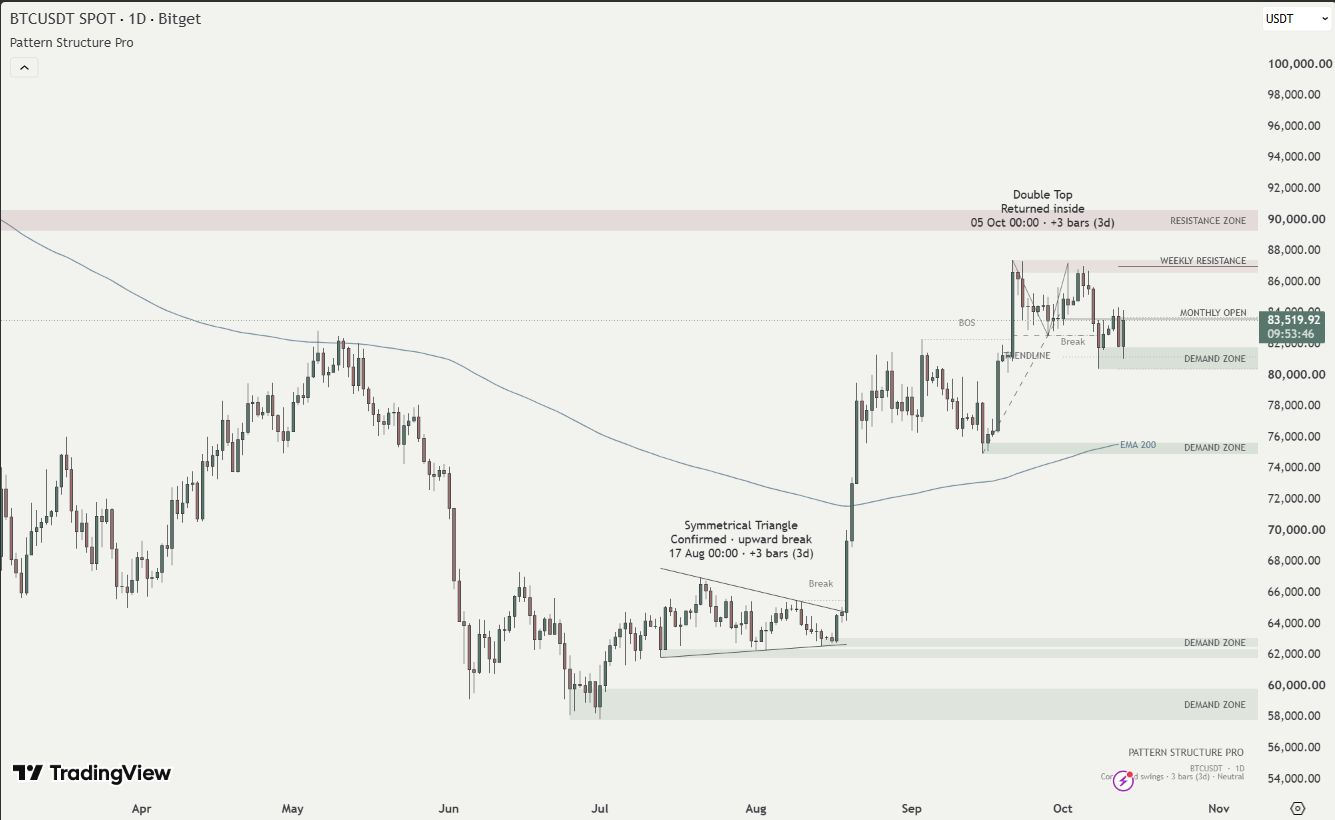
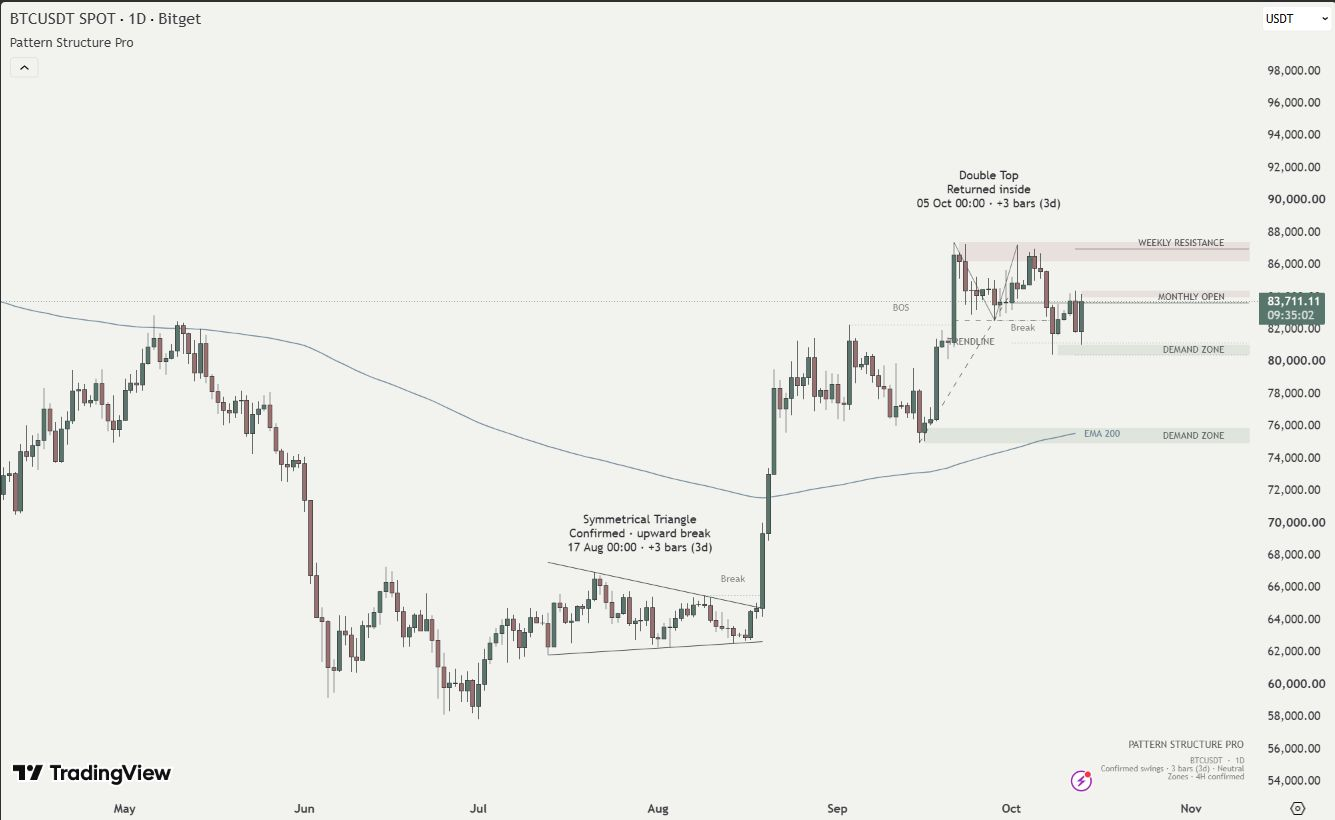
Keep supply and demand zones consistent with a shared 4H source

diff --git a/README.md b/README.md
@@ -12,7 +12,7 @@ Stories view on **BITGET:BTCUSDT, 4H**: two local Double Tops, a historical tren
 
 - **18 pattern variants:** Double and Triple Top/Bottom; Head & Shoulders and Inverse H&S; ascending, descending, and symmetrical triangles; rising and falling wedges; bullish and bearish flags and pennants; ascending and descending channels; and rectangles.
 - **Market structure:** optional HH, HL, LH, LL, EQH, and EQL labels. Closed-bar breaks are classified as BOS, CHoCH, or a neutral Break from the established swing structure.
-- **Price context:** swing-based supply/demand zones, previous week high/low/midpoint, previous month midpoint, and current month open. Editorial presentation labels the previous week high as Weekly Resistance.
+- **Price context:** confirmed 4H supply/demand zones shared across supported chart intervals, previous week high/low/midpoint, previous month midpoint, and current month open. Editorial presentation labels the previous week high as Weekly Resistance.
 - **Trend references:** a confirmed swing trendline that stops at its first closed-bar break, plus an optional 200-period EMA on the same price scale.
 - **Controlled presentation:** up to three distinct selected patterns, transparent zones, thin levels, priority-based labels, automatic light/dark colors, and bounded drawing storage. Lower-priority text is suppressed when it conflicts with important annotations.
 
@@ -31,7 +31,7 @@ The engine uses confirmed pivot highs and lows with equal left- and right-hand s
 | 4H | 3 closed bars / 12 hours | 4H candles |
 | 1D | 3 closed bars / 3 trading days | Daily candles |
 
-Switching the chart interval automatically recalculates the entire engine on that interval. Geometry windows, expiry, and confirmation are measured in **bars**, while price tolerances use that interval's ATR; they are not forced into a fixed 4H wall-clock duration. The 4H detection thresholds are preserved. Analysis captions show both the bar delay and its interval duration. For markets with session gaps, three daily bars can take longer than three calendar days.
+Switching the chart interval recalculates patterns, swing structure, trendlines, and EMA on that interval. Supply/demand zones use a shared **4H** source by default, so their price boundaries and source timestamps remain consistent across 1H, 2H, 4H, and 1D. Choose **Zone source: Chart** to restore interval-specific zones. Geometry windows, expiry, and confirmation are measured in **bars**, while price tolerances use that interval's ATR; they are not forced into a fixed 4H wall-clock duration. The 4H detection thresholds are preserved. Analysis captions show both the bar delay and its interval duration. For markets with session gaps, three daily bars can take longer than three calendar days.
 
 Reversal candidates compare three or five anchors for matching extremes, adequate intervening depth, prior price context, and—for head and shoulders—head prominence and shoulder timing. Double Top/Bottom detection also searches across minor intervening swings while rejecting an overtopping extreme or a separate central third contact.
 
@@ -51,7 +51,7 @@ Candidates receive a geometric quality score. The minimum-quality setting filter
 
 Unconfirmed reversals invalidate when price closes beyond the opposite extreme and buffer. Flags/pennants invalidate on a qualifying break against their impulse direction. Candidates also expire: channels/rectangles after 60 bars from their final anchor, other formations after 30 bars from detection, and reversals after a span-dependent 30–120 bars. Converging patterns expire on reaching their intersection. Invalid and expired candidates are excluded from the display; old candidates and finished patterns also have age limits.
 
-Supply/demand zones require at least 1.5 ATR departure from a confirmed swing. Their width derives from the pivot candle's wick/body relationship and is bounded to 0.2–1 ATR. A close beyond the far edge and buffer invalidates a zone; a touch alone does not. Overlapping same-side zones merge for display without changing their stored source geometry. Stories filters distant zones and presents one primary zone on each side where eligible zones exist; Analysis can show more.
+Supply/demand zones require at least 1.5 ATR departure from a confirmed swing. Their width derives from the pivot candle's wick/body relationship and is bounded to 0.2–1 ATR. A close beyond the far edge and buffer invalidates a zone; a touch alone does not. Overlapping same-side zones merge for display without changing their stored source geometry. In 4H source mode, detection, invalidation, expiry (300 source bars), relevance, and zone selection all use closed 4H data. Time-based drawing anchors preserve the source candle position across chart intervals. The 1D chart reads closed 4H intrabars; it does not wait for the daily candle to close. The open 4H candle does not change zone boundaries or validity. Stories filters distant zones and presents one primary zone on each side where eligible zones exist; Analysis can show more.
 
 ### Developing formations and historical drawings
 
@@ -63,7 +63,7 @@ PSP redraws the current selection rather than retaining every historical drawing
 
 ## Screenshots
 
-The images were captured on **13 October 2026**, directly in TradingView through the **Codex browser**, using the production source on BITGET:BTCUSDT. Browser screenshot clipping removes surrounding panels and toolbars; candles, price axes, labels, and drawings are unchanged. No patterns were manually added.
+The images were captured on **13 October 2026**, directly in TradingView, using the production source on BITGET:BTCUSDT. Browser screenshot clipping removes surrounding panels and toolbars; candles, price axes, labels, and drawings are unchanged. No patterns were manually added. Screenshots reflect the shared 4H zone version.
 
 ### Stories
 
@@ -81,7 +81,7 @@ The same market window in Analysis view shows anchor geometry, a Double Top mark
 
 [1H Analysis](assets/screenshots/psp-1h-analysis.jpg) · [2H Analysis](assets/screenshots/psp-2h-analysis.jpg) · [1D Analysis](assets/screenshots/psp-1d-analysis.jpg)
 
-These capture the same engine recalculated on each chart interval. A current window can legitimately have no selected pattern; the structure, zones, levels, and EMA still provide context. Confirmation timing is 3h, 6h, 12h, or 3d at the default swing strength. Live checks confirm runtime and rendering on the observed windows, not broad pattern-recognition accuracy across every historical period.
+These show chart-specific pattern and structure detection with the shared confirmed 4H zone layer. A current window can legitimately have no selected pattern; the structure, zones, levels, and EMA still provide context. Confirmation timing is 3h, 6h, 12h, or 3d at the default swing strength. Live checks confirm runtime and rendering on the observed windows, not broad pattern-recognition accuracy across every historical period.
 
 ## Installation
 
@@ -116,6 +116,7 @@ All six family switches default to **on**: **Double / Triple Top & Bottom**, **H
 | HH / HL / LH / LL | Off | Recent swing labels, including EQH/EQL for nearly equal swings. |
 | BOS / CHoCH | On | Recent structure-break lines and captions; neutral Break captions are hidden in Stories. |
 | Swing supply / demand zones | On | Valid swing-zone rendering. |
+| Zone source | 4H | Shared confirmed 4H zones; Chart restores the previous interval-specific behavior. |
 | Week / month levels | On | The five weekly/monthly reference levels. |
 | Confirmed swing trendline | On | A validated rising-support or falling-resistance swing line. |
 | EMA 200 | On | The 200-period close EMA and its label on the chart's timeframe. |
